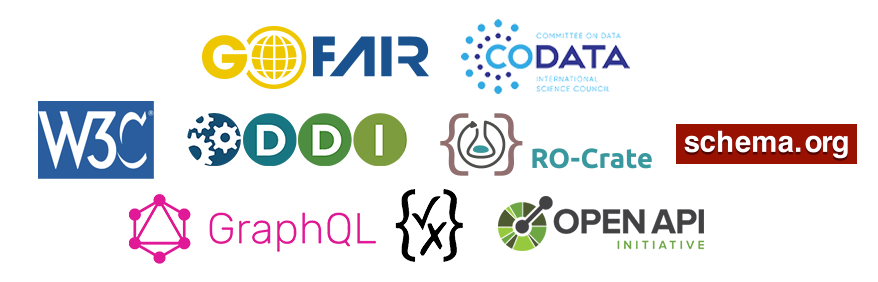
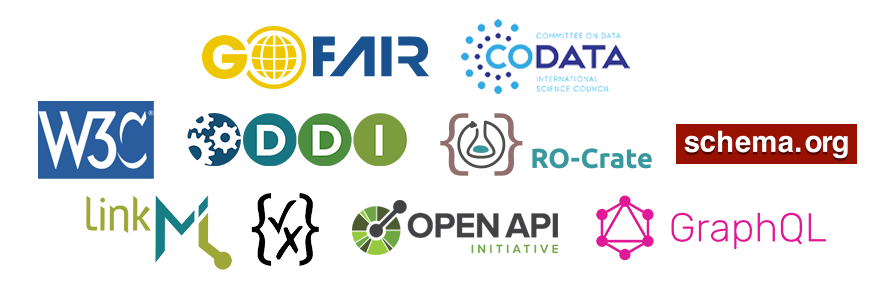
Added linkML

Changed region(s): [[0.0923, 0.6525, 0.9533, 0.9645]]

diff --git a/profile/README.md b/profile/README.md
@@ -54,7 +54,7 @@ Standards and best practices are central to our strategy. We are actively involv
 
 Guided by the [FAIR principles](https://www.go-fair.org/fair-principles/) and the W3C [Data on the Web Best Practices](https://www.w3.org/TR/dwbp/), our tools make use of specifications such as the [Data Documentation Initiative (DDI)](https://ddialliance.org/), [schema.org](https://schema.org/), [Data Catalog Vocabulary (DCAT)](https://www.w3.org/TR/vocab-dcat-3/), [Research Object Crates (RO-Crates)](https://www.researchobject.org/ro-crate/), and [Open Digital Rights Language (ODRL)](https://www.w3.org/TR/odrl-model/). 
 
-On the information technology side, we build upon [OpenAPI](https://www.openapis.org/) and [GraphQL](https://graphql.org/), [JSON Schema](), and [semantic web standards](https://www.w3.org/2001/sw/wiki/Main_Page).
+On the information technology side, we build upon [LinkML](https://linkml.io/), [OpenAPI](https://www.openapis.org/),[GraphQL](https://graphql.org/), [JSON Schema](https://json-schema.org/), and [semantic web standards](https://www.w3.org/2001/sw/wiki/Main_Page).
 
 
 ![standards](https://github.com/DataArtifex/.github/blob/main/profile/dartfx_standards.png)
